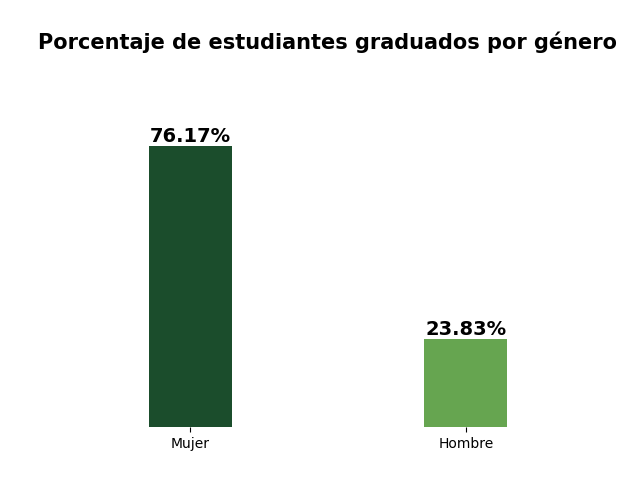
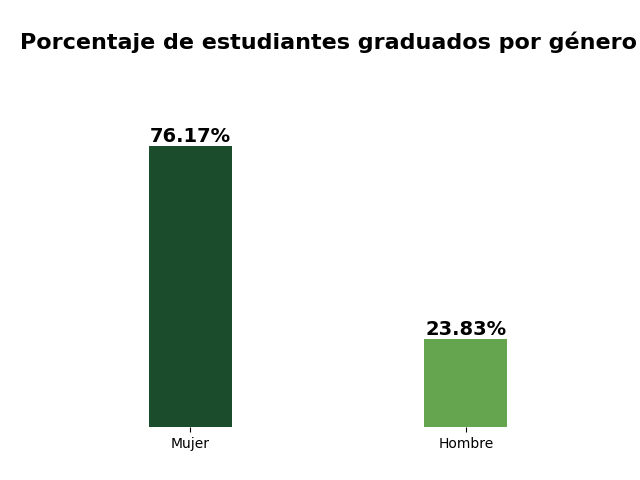
Seguimos intentando con el Dash

Changed region(s): [[0.0312, 0.0625, 1.0, 0.125]]

diff --git a/DashCompleto_P2.py b/DashCompleto_P2.py
@@ -44,7 +44,7 @@ html.Div([
 
     html.Br(),
 
-    dcc.Graph(id='vis_1'),
+    html.Img(src='gender_percentage.png', alt='Descripción de la imagen'),
 
     html.Br(),
 
@@ -152,103 +152,12 @@ def by_pred(MS, AO, C, PQ, AG, D, G, AE):
 
     return resp
 
-
-import psycopg2
-import pandas as pd
-import matplotlib.pyplot as plt
-from matplotlib.ticker import FuncFormatter
-import dash
-import dash_core_components as dcc
-import dash_html_components as html
-import plotly.express as px
-
-# Conectarse a la base de datos PostgreSQL
-engine = psycopg2.connect(
-    dbname="p2",
-    user="postgres",
-    password="proyecto2",
-    host="proyecto2.c9pexl84mjtw.us-east-1.rds.amazonaws.com",
-    port="5432"
-)
-
-# Consulta SQL para obtener los datos de graduados
-query = """
-SELECT G, target
-FROM grado;
-"""
-
-# Ejecutar la consulta y cargar los resultados en un DataFrame
-df = pd.read_sql_query(query, engine)
-
-# Cerrar la conexión a la base de datos
-engine.close()
-
-# Mapear los valores numéricos de género a "Mujer" y "Hombre"
-gender_mapping = {0: 'Mujer', 1: 'Hombre'}
-df['g'] = df['g'].map(gender_mapping)
-
-# Filtrar los datos para obtener solo los graduados (donde 'target' es igual a 1)
-graduados = df[df['target'] == 1]
-
-# Calcular el porcentaje de graduados por género
-gender_percentage = (graduados['g'].value_counts() / len(graduados)) * 100
-
-# Define tus colores personalizados en formato hexadecimal
-custom_colors = ['#1B4D2C', '#66A550']
-
-# Crear un gráfico de barras para comparar los porcentajes de graduados por género
-ax = gender_percentage.plot(kind='bar', color=custom_colors, ylim=(0, 100), width=0.3)
-
-# Personalizar el título
-plt.title('Porcentaje de estudiantes graduados por género', fontsize=15, fontweight='bold')
-
-# Eliminar la etiqueta del eje x
-plt.xlabel('')
-
-# Aumentar el tamaño de fuente y poner en negrita los valores de porcentaje
-for index, value in enumerate(gender_percentage):
-    plt.text(index, value, f'{value:.2f}%', ha='center', va='bottom', fontsize=14, fontweight='bold')
-
-# Ajustar los márgenes
-plt.margins(x=0.2)
-
-# Eliminar el eje y y el marco cuadrado
-ax.get_yaxis().set_visible(False)
-ax.spines['top'].set_visible(False)
-ax.spines['right'].set_visible(False)
-ax.spines['left'].set_visible(False)
-ax.spines['bottom'].set_visible(False)
-
-# Ajustar la rotación de las etiquetas en el eje x
-plt.xticks(rotation=0)
-
-# Guardar la gráfica como una imagen
-plt.savefig('gender_percentage.png')
-
-
 @app.callback(Output('tab-content', 'children'), [Input('tabs', 'value')])
-# Define el contenido de la pestaña 1
-def render_tab_1_content(tab):
-    if tab == 'tab-1':
-        return html.Div([
-            html.H3('Contenido de la Pestaña 1'),
-
-            # Gráfica 1: Porcentaje de graduados por género
-            html.Img(src='C:/Users/ceden/OneDrive/Escritorio/Analítica Computacional/Proyecto 1/Proyecto2/gender_percentage.png', width="80%"),  # Reemplaza 'gender_percentage.png' con la ruta de tu imagen
-            html.P('Esta gráfica muestra el porcentaje de estudiantes graduados por género.'),
-            
-            # Puedes agregar más gráficas o contenido aquí si es necesario
-        ])
-    else:
-        return html.Div([])
-
 def render_content(tab):
     if tab == 'tab-1':
-        return render_tab_1_content(tab)
+        return tab_1_content
     elif tab == 'tab-2':
         return tab_2_content
-
-
 
 @app.callback(
     Output('output', 'children'),
@@ -263,6 +172,7 @@ def render_content(tab):
     State('Curso', 'value'),
     State('Apl_order', 'value')]
 )
+
 def update_output(n_clicks, MS, G, AE, PQ, AG, D, C, AO):
     try:
         if n_clicks > 0:
@@ -296,8 +206,6 @@ def update_output(n_clicks, MS, G, AE, PQ, AG, D, C, AO):
             return f'Probabilidad de Graduación: {round(resp, 2)}%', fig
     except Exception as e:
         return f'Error: {str(e)}', {}
-
-
 
 #Se ejecuta la aplicación
 if __name__ == '__main__':
